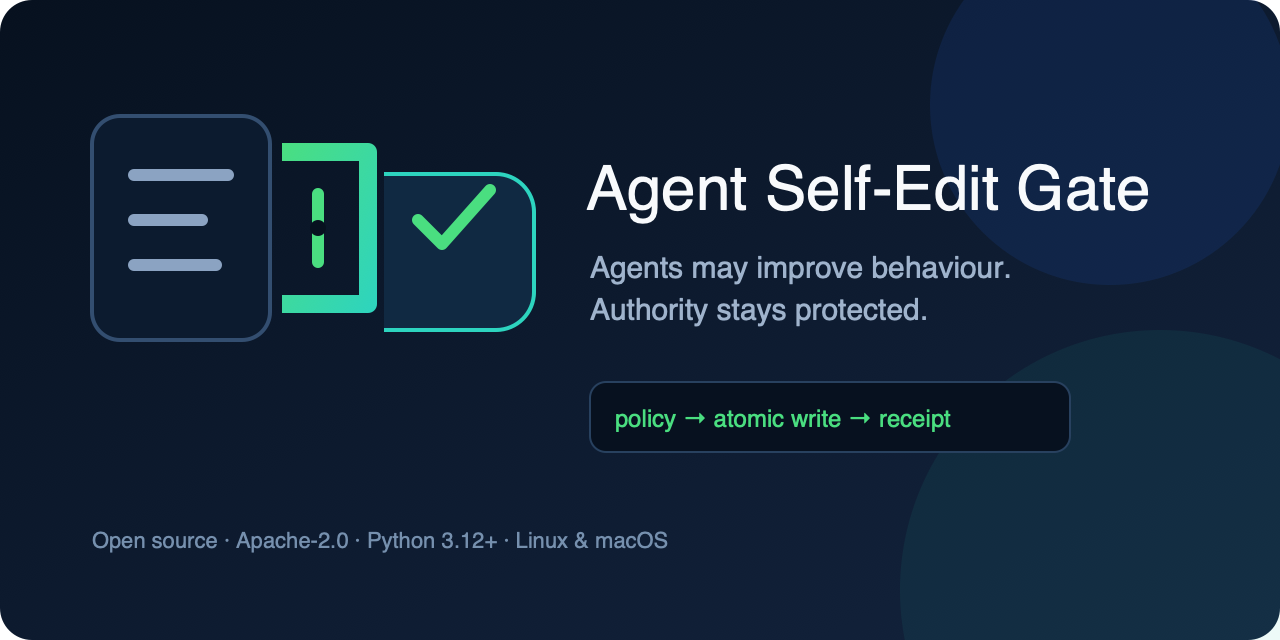
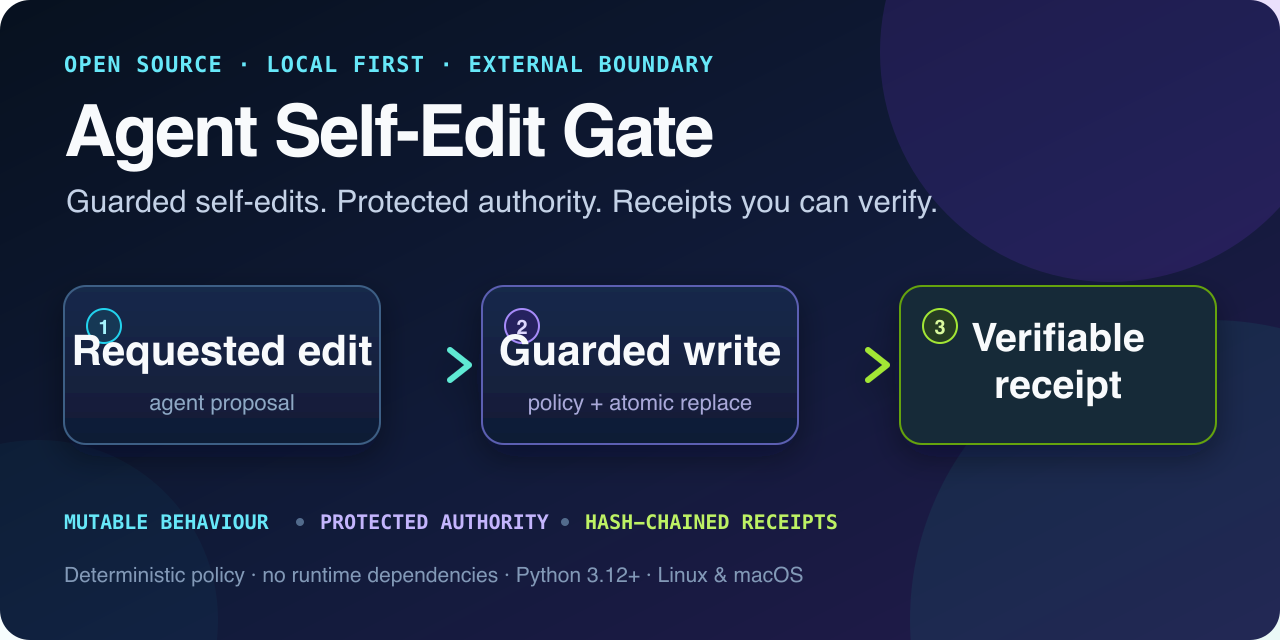
docs: add static guarded-write hero

diff --git a/README.md b/README.md
@@ -1,5 +1,9 @@
 # Agent Self-Edit Gate
 
+<p align="center">
+  <img src="docs/assets/social-preview.svg" alt="Agent Self-Edit Gate flow: a requested edit passes through a guarded write and produces a verifiable receipt." width="100%">
+</p>
+
 **Policy-enforced self-edit gateway for coding agents: let agents improve
 prompts and skills without rewriting permissions, hooks, or enforcement.**
 
@@ -123,16 +127,17 @@ See the complete [policy reference](docs/POLICY_REFERENCE.md) and ready-to-copy
 
 ## What happens on a write
 
-```mermaid
-flowchart TD
-    A["Requested\nedit"] --> B["Classify path\ndeny before allow"]
-    B --> C["Bound content\nand hash target"]
-    C --> D["fsync intent\nreceipt"]
-    D --> E["Recheck policy\nand target\nidentity"]
-    E --> F["Atomic replace\nand directory\nfsync"]
-    F --> G["fsync commit\nreceipt"]
-    G --> H["Independent\nverifier"]
-```
+The hero condenses the protocol to requested edit → guarded write → verifiable
+receipt. The complete order is:
+
+1. Receive the requested edit.
+2. Classify its path, with deny rules taking precedence.
+3. Bound the content and hash the current target.
+4. Persist and `fsync` an intent receipt.
+5. Recheck the policy and target identity.
+6. Atomically replace the target and `fsync` its directory.
+7. Persist and `fsync` a commit receipt.
+8. Verify the result independently.
 
 Every receipt names the exact policy, before bytes, proposed bytes, operation,
 and prior receipt hash. A crash between intent and commit leaves a dangling
